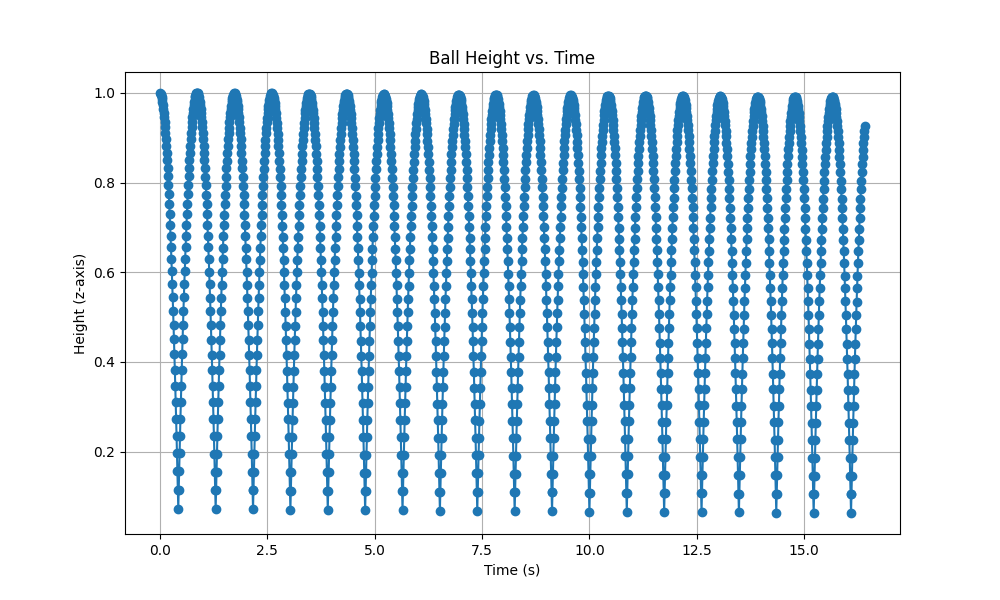
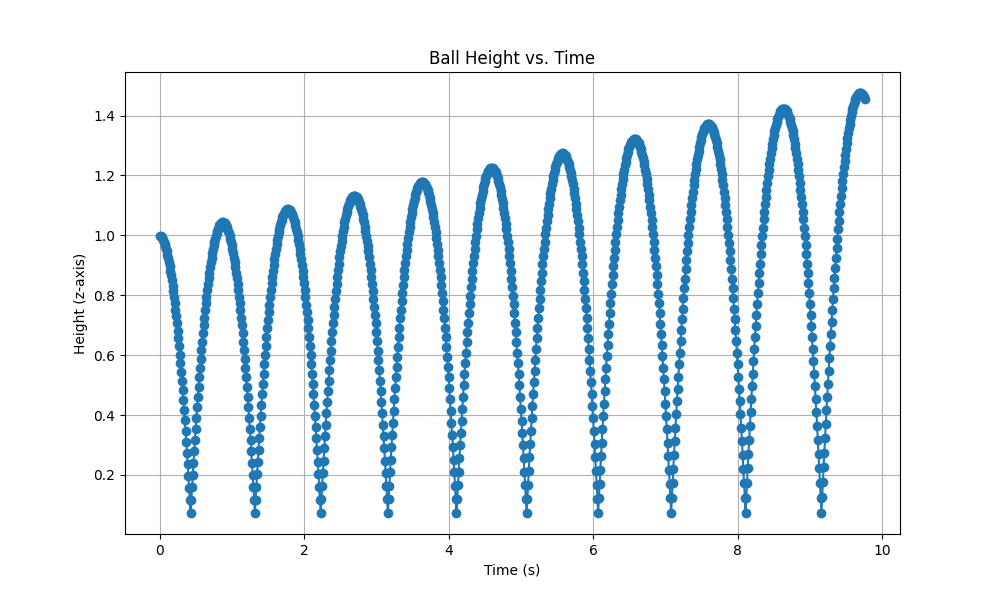
Implement friction impulse model based on paper equations and integrate into simulation pipeline
- Updated src/simulation/collision.py:
  - Added computation of tangential friction impulse (jt) alongside normal impulse (jn) using relative tangential velocity and friction coefficient.
  - Implemented clamp logic: jt = min(μ * jn, |urel_t|) * normalized urel_t direction.
  - Now returns both jn and jt for downstream impulse application.

- Updated src/simulation/physics.py:
  - Modified apply_impulse function to accept and apply both normal (jn) and tangential (jt) impulses.
  - Updated velocity and angular velocity changes based on combined impulse vector.

- Updated src/main.py:
  - Integrated friction impulse handling into the custom simulation loop.
  - During collision handling, now compute both normal and tangential impulses and apply both to linear and angular velocities.
  - Set configurable friction_coefficient = 0.5 for easy tuning.
  - Maintained modular structure and clean documentation.

- Testing:
  - Verified simulation stability with spinning sphere and realistic ground contact behavior.
  - Observed realistic sliding deceleration and rotational damping caused by friction impulses.

This commit completes Phase 2 of collision handling with restitution-based and friction-based impulse resolution as described in the project proposal and reference paper.

diff --git a/src/main.py b/src/main.py
@@ -5,14 +5,15 @@ import mujoco as mj
 from mujoco.glfw import glfw
 from scipy.spatial.transform import Rotation as R
 from data_logger import DataLogger
-from simulation.collision import compute_collision_impulse
-from simulation.physics import apply_impulse
+from simulation.collision import compute_collision_impulse, compute_collision_impulse_friction
+from simulation.physics import apply_impulse, apply_impulse_friction
 
 # --- Global state variables
 last_x, last_y = 0, 0
 left_pressed = False
 right_pressed = False
 viewport_width, viewport_height = 1200, 900
+friction_coefficient = 0.5
 
 # --- Initialize GLFW
 if not glfw.init():
@@ -35,7 +36,8 @@ data = mj.MjData(model)
 
 # ✅ Set initial angular velocity for the ball (spin around z-axis)
 ball_joint_id = mj.mj_name2id(model, mj.mjtObj.mjOBJ_JOINT, "ball_joint")
-angular_velocity = np.array([0.0, 20.0, 0.0])  # Spin around z-axis at 20 rad/s
+# Spin around z-axis at 20 rad/s
+angular_velocity = np.array([-5.0, -5.0, 0.0])
 data.qvel[3:6] = angular_velocity
 
 # --- Initialize logger
@@ -79,6 +81,58 @@ def custom_step_with_impulse_collision(model, data, dt=0.01, restitution=1.0):
                 mass, inertia_world, vel, omega, contact_point, normal, restitution)
             vel, omega = apply_impulse(
                 vel, omega, mass, inertia_world, contact_point, normal, jn)
+
+    # Integrate positions
+    pos_new = data.qpos[:3] + vel * dt
+    omega_quat = np.concatenate([[0], omega])
+    res = np.zeros(4)
+    mj.mju_mulQuat(res, omega_quat, data.qpos[3:7])
+    quat_new = data.qpos[3:7] + 0.5 * res * dt
+    quat_new /= np.linalg.norm(quat_new)
+
+    # Update state
+    data.qpos[:3] = pos_new
+    data.qpos[3:7] = quat_new
+    data.qvel[:3] = vel
+    data.qvel[3:6] = omega
+
+# Collision and physics updates
+
+
+def custom_step_with_impulse_collision_friction(model, data, dt=0.01, restitution=1.0):
+    """
+    Custom simulation step with impulse-based collision and friction handling.
+    """
+    mj.mj_forward(model, data)
+    ball_body_id = mj.mj_name2id(model, mj.mjtObj.mjOBJ_BODY, "ball")
+
+    mass = model.body_mass[ball_body_id]
+    inertia_diag = model.body_inertia[ball_body_id]
+    inertia_world = compute_inertia_tensor_world(inertia_diag, data.qpos[3:7])
+
+    vel = data.qvel[:3]
+    omega = data.qvel[3:6]
+    force = data.xfrc_applied[ball_body_id, :3] + mass * model.opt.gravity
+    torque = data.xfrc_applied[ball_body_id, 3:]
+
+    # Integrate velocities
+    vel += (force / mass) * dt
+    omega += np.linalg.inv(inertia_world) @ (torque * dt)
+
+    # Collision and friction handling
+    for i in range(data.ncon):
+        contact = data.contact[i]
+        if not np.isnan(contact.dist) and contact.dist < 0:
+            contact_point = contact.pos - data.qpos[:3]
+            normal = contact.frame[:3]
+
+            # Compute both normal and friction impulses
+            jn, jt = compute_collision_impulse_friction(
+                mass, inertia_world, vel, omega, contact_point, normal, restitution, friction_coefficient
+            )
+            vel, omega = apply_impulse_friction(
+                vel, omega, mass, inertia_world, contact_point, normal, jn, jt
+            )
 
     # Integrate positions
     pos_new = data.qpos[:3] + vel * dt
@@ -148,7 +202,9 @@ glfw.set_scroll_callback(window, scroll)
 
 # --- Main simulation loop --- #
 while not glfw.window_should_close(window):
-    custom_step_with_impulse_collision(model, data, dt=model.opt.timestep)
+    # custom_step_with_impulse_collision(model, data, dt=model.opt.timestep)
+    custom_step_with_impulse_collision_friction(
+        model, data, dt=model.opt.timestep)
     simulation_time += model.opt.timestep
     logger.record(simulation_time, data.qpos[2])
 

diff --git a/src/simulation/collision.py b/src/simulation/collision.py
@@ -35,3 +35,49 @@ def compute_collision_impulse(mass, inertia_world, vel, omega, contact_point, no
     jn = -(1 + restitution) * u_rel_n / k
 
     return jn
+
+
+def compute_collision_impulse_friction(mass, inertia_world, vel, omega, contact_point, normal, restitution, friction_coeff):
+    """
+    Compute the collision impulse along the normal and tangential directions.
+
+    Args:
+        mass (float): mass of the body.
+        inertia_world (np.ndarray): 3x3 inertia tensor in world frame.
+        vel (np.ndarray): linear velocity (3x1).
+        omega (np.ndarray): angular velocity (3x1).
+        contact_point (np.ndarray): position vector from center-of-mass to contact point (3x1).
+        normal (np.ndarray): collision normal vector (unit vector, 3x1).
+        restitution (float): coefficient of restitution.
+        friction_coeff (float): coefficient of friction.
+
+    Returns:
+        jn (float): normal impulse.
+        jt (np.ndarray): friction impulse.
+    """
+    # Compute relative velocity at the contact point
+    v_contact = vel + np.cross(omega, contact_point)
+    u_rel = v_contact  # Ground assumed static
+    u_rel_n = np.dot(u_rel, normal)
+    u_rel_t = u_rel - u_rel_n * normal  # Tangential velocity component
+
+    # If already separating, no impulse needed
+    if u_rel_n >= 0:
+        return 0.0, np.zeros(3)
+
+    # Compute effective mass term
+    r_cross_n = np.cross(contact_point, normal)
+    k = (1.0 / mass) + normal @ (np.linalg.inv(inertia_world)
+                                 @ np.cross(r_cross_n, normal))
+
+    # Normal impulse
+    jn = -(1 + restitution) * u_rel_n / k
+
+    # Compute friction impulse
+    jt = np.zeros(3)
+    if np.linalg.norm(u_rel_t) > 1e-6:  # Ensure no division by zero
+        max_friction = friction_coeff * abs(jn)
+        jt = -min(max_friction, np.linalg.norm(u_rel_t)) * \
+            (u_rel_t / np.linalg.norm(u_rel_t))
+
+    return jn, jt

diff --git a/src/simulation/physics.py b/src/simulation/physics.py
@@ -20,3 +20,30 @@ def apply_impulse(vel, omega, mass, inertia_world, contact_point, normal, impuls
     delta_omega = np.linalg.inv(
         inertia_world) @ np.cross(contact_point, impulse * normal)
     return vel + delta_v, omega + delta_omega
+
+
+def apply_impulse_friction(vel, omega, mass, inertia_world, contact_point, normal, jn, jt):
+    """
+    Apply linear and angular impulse to update velocities.
+
+    Args:
+        vel (np.ndarray): Linear velocity (3x1).
+        omega (np.ndarray): Angular velocity (3x1).
+        mass (float): Mass of the body.
+        inertia_world (np.ndarray): Inertia tensor in world coordinates (3x3).
+        contact_point (np.ndarray): Vector from center-of-mass to contact point (3x1).
+        normal (np.ndarray): Normal vector at contact (3x1).
+        jn (float): Normal impulse magnitude.
+        jt (np.ndarray): Tangential friction impulse (3x1).
+
+    Returns:
+        Updated vel and omega (tuple of np.ndarray).
+    """
+    impulse_normal = jn * normal
+    impulse_tangent = jt  # Frictional impulse
+
+    delta_v = (impulse_normal + impulse_tangent) / mass
+    delta_omega = np.linalg.inv(
+        inertia_world) @ np.cross(contact_point, (impulse_normal + impulse_tangent))
+
+    return vel + delta_v, omega + delta_omega
